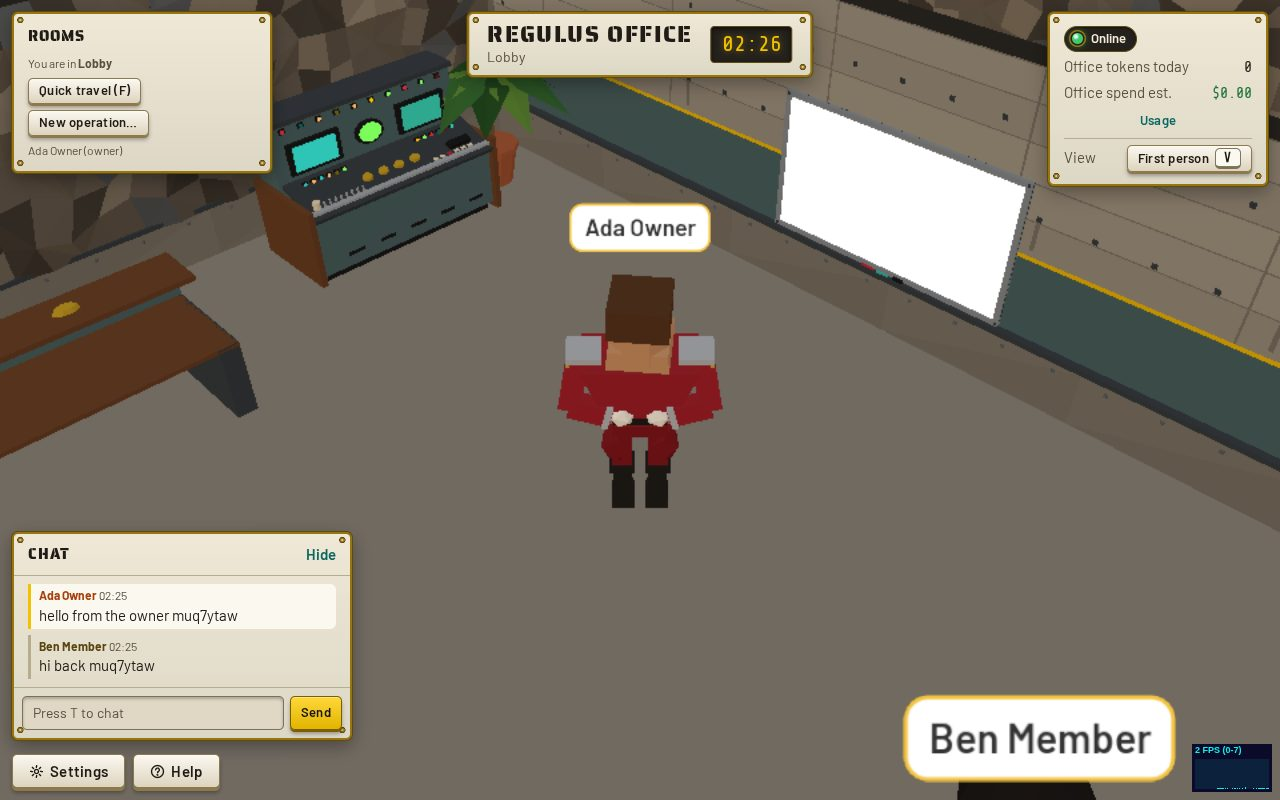
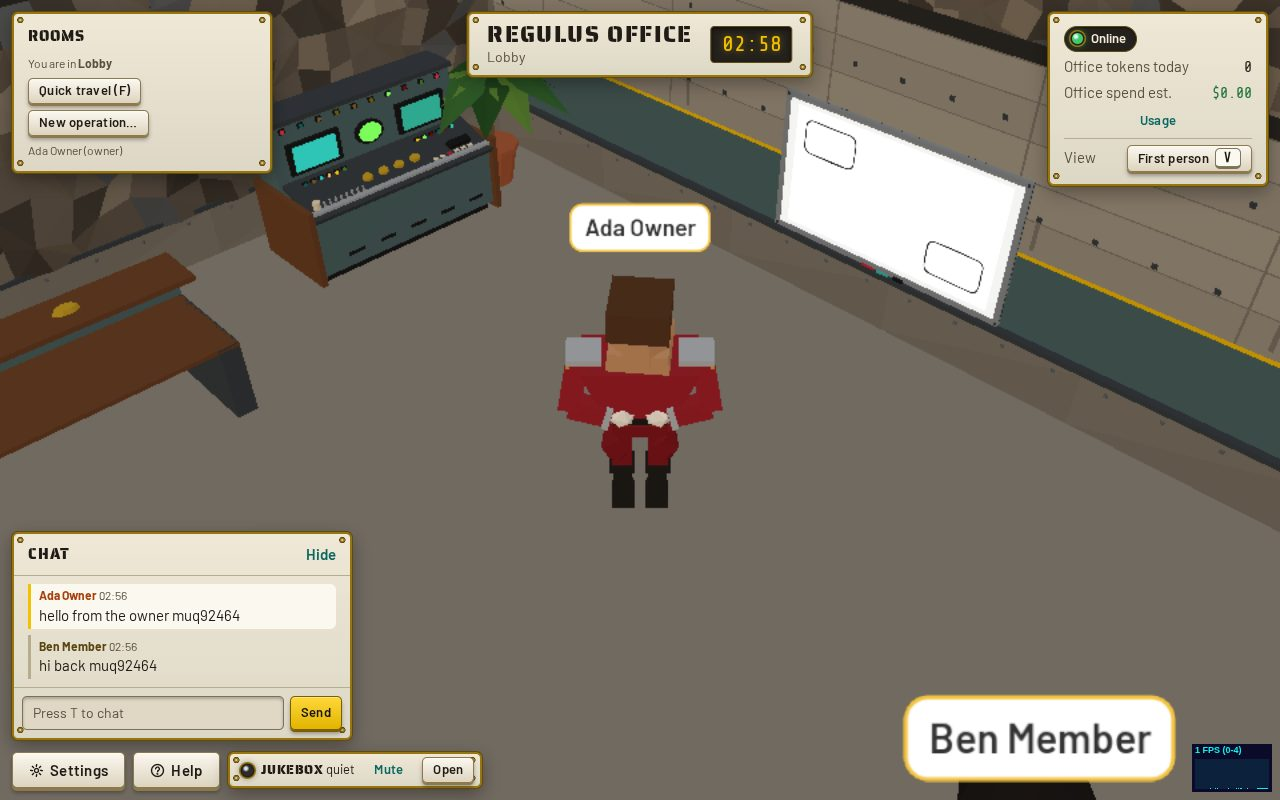
web: the wall picks up a snapshot that arrives later; screenshots (#45)
A map that appears after the first render needs a new shader program, so
the face material is remounted when the snapshot texture arrives.

diff --git a/apps/web/src/scene/whiteboard/WhiteboardLook.tsx b/apps/web/src/scene/whiteboard/WhiteboardLook.tsx
@@ -64,6 +64,8 @@ export function WhiteboardLook({ w, h, texture, highlighted }: BoardLookProps) {
       <mesh position={[0, 0, FACE_Z]} name="whiteboard-face">
         <planeGeometry args={[w, h]} />
         <meshBasicMaterial
+          // A map appearing later needs another shader program: a new material, not a prop change.
+          key={texture ? "snapshot" : "blank"}
           map={texture}
           color={texture ? "#FFFFFF" : WHITEBOARD_FACE}
           toneMapped={false}
